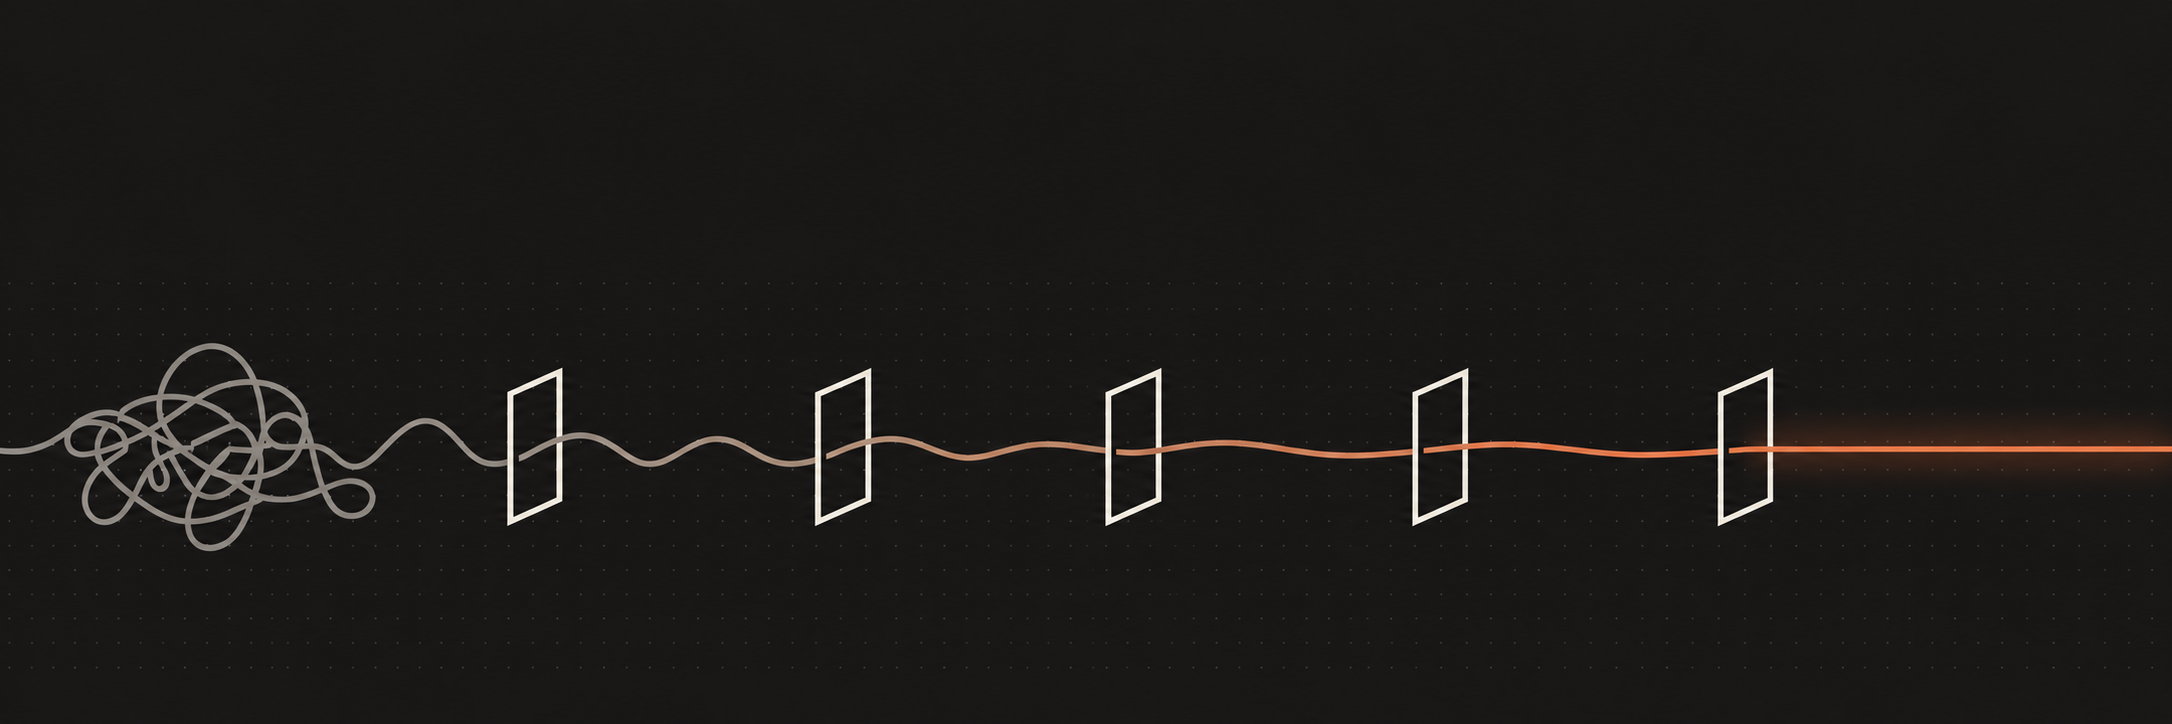
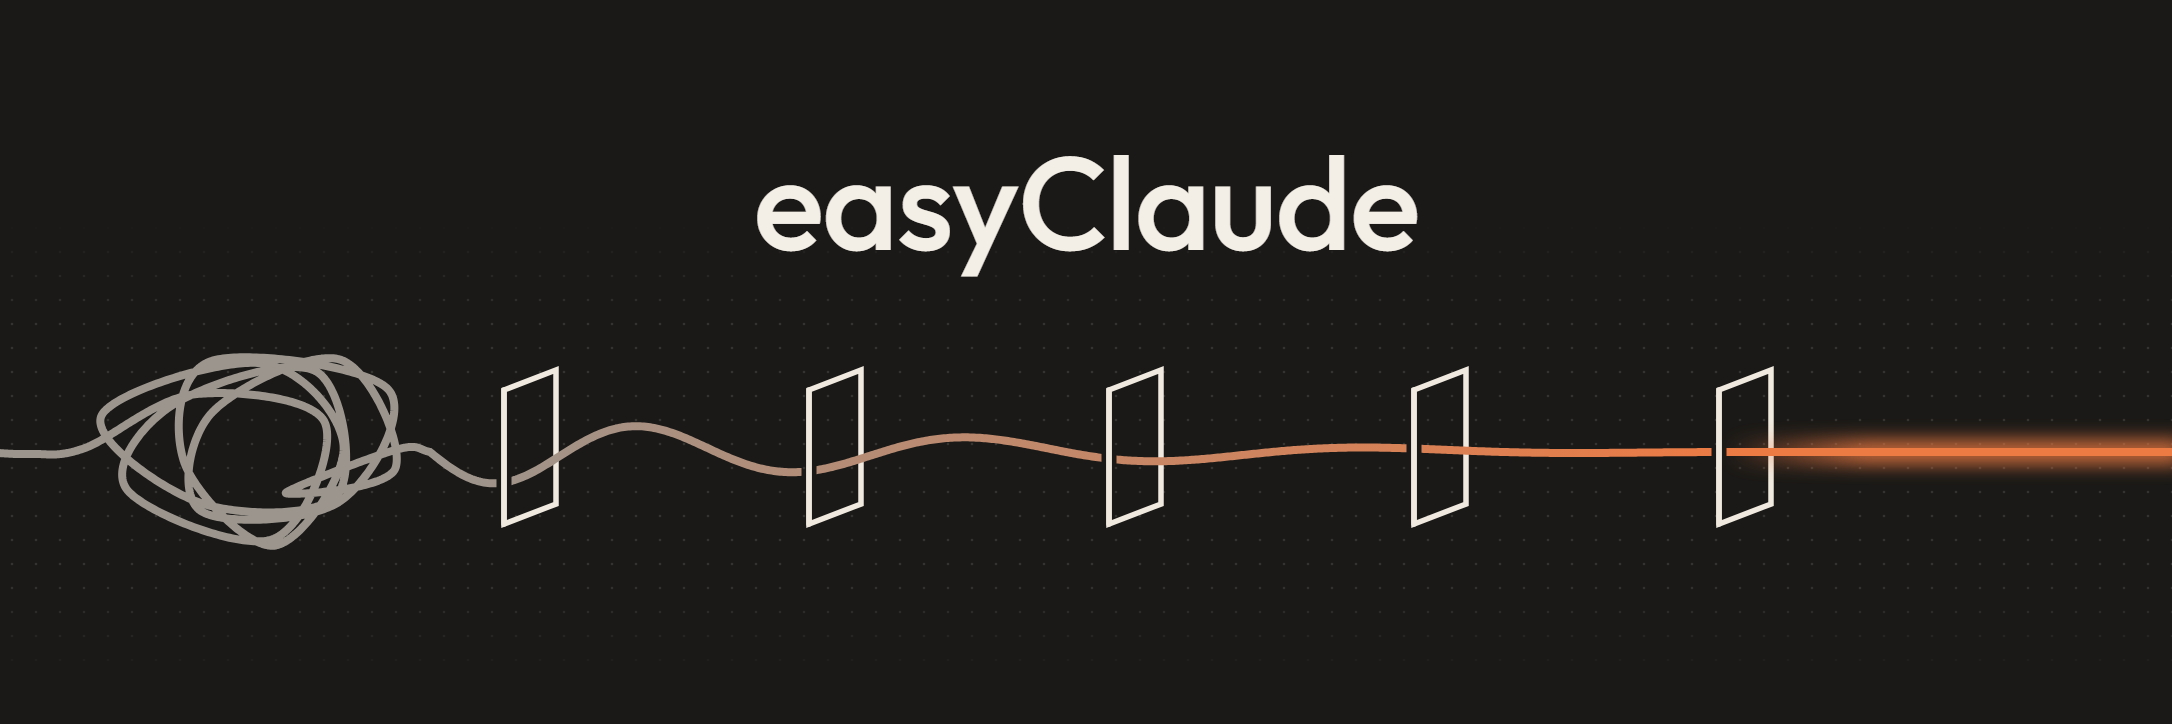
Redraw the README art in code, with the name on it
The old header came from an image model, and its thread broke into short
dashes where it crossed itself or a gate. Asking a model to redraw it copied
the breaks, so the pictures are now drawn by docs/art/draw.html: the thread
is one computed path and cannot break, and the name is real text, spelled
right. The header now carries the name, so the separate title goes.

The section dividers are transparent so they sit on GitHub's light and dark
page colours alike. The two headers are 13 times smaller than before.

diff --git a/docs/art/draw.html b/docs/art/draw.html
@@ -1,0 +1,158 @@
+<!doctype html>
+<html>
+<head>
+<meta charset="utf-8">
+<title>easyClaude README art</title>
+<link rel="preconnect" href="https://fonts.googleapis.com">
+<link href="https://fonts.googleapis.com/css2?family=Outfit:wght@500&display=block" rel="stylesheet">
+<style>
+  html, body { margin: 0; padding: 0; overflow: hidden; background: transparent; }
+  svg { display: block; }
+</style>
+</head>
+<body>
+<script>
+// The README pictures, drawn in code: ?kind=hero|divider & theme=dark|light.
+// render.sh turns each combination into a PNG in docs/assets/.
+//
+// The earlier header was made by an image model, and its thread broke into short dashes
+// wherever it crossed itself or a gate; asking a model to redraw it copied the breaks.
+// Here the thread is one computed path, so it cannot break: every point follows the last.
+const q = new URLSearchParams(location.search);
+const kind = q.get('kind') || 'hero';
+const theme = q.get('theme') || 'dark';
+
+const C = theme === 'dark'
+  ? { bg: '#1a1917', dot: '#f3eee6', dotOp: 0.12, gate: '#efe9df', text: '#f3eee6', grey: '#9b958e', orange: '#ec7a43' }
+  : { bg: '#f3eee6', dot: '#1f1e1d', dotOp: 0.14, gate: '#1f2430', text: '#1f1e1d', grey: '#8c8781', orange: '#e06c3c' };
+
+const W = 2172;
+const H = kind === 'hero' ? 724 : 120;
+const f = (n) => n.toFixed(2);
+
+const pathOf = (pts) => 'M' + pts.map(([x, y]) => `${f(x)} ${f(y)}`).join(' L');
+
+// A parallelogram gate seen at an angle: the left post sits lower because it is the near
+// one. The thread goes through the opening, so it is drawn over the far post and both bars
+// (gate) and under the near post (gateFront). Where it passes behind the near post, a mask
+// cuts a short gap in the thread (gateGap) so the post reads as in front. A mask rather
+// than a strip of background colour, because the divider is transparent and sits on
+// whatever colour GitHub's page has.
+const gateCorners = (x, cy, s) => {
+  const w = 26 * s, up = 62 * s, down = 72 * s, lean = 20 * s;
+  return [[x - w, cy - up], [x + w, cy - up - lean], [x + w, cy + down - lean], [x - w, cy + down]];
+};
+function gate(x, cy, s) {
+  const p = gateCorners(x, cy, s);
+  return `<polygon points="${p.map(([a, b]) => `${f(a)},${f(b)}`).join(' ')}" fill="none" stroke="${C.gate}" stroke-width="${f(5.5 * s)}" stroke-linejoin="miter"/>`;
+}
+const post = (x, cy, s, stroke, width) => {
+  const [tl, , , bl] = gateCorners(x, cy, s);
+  return `<line x1="${f(tl[0])}" y1="${f(tl[1])}" x2="${f(bl[0])}" y2="${f(bl[1])}" stroke="${stroke}" stroke-width="${f(width)}" stroke-linecap="round"/>`;
+};
+const gateFront = (x, cy, s) => post(x, cy, s, C.gate, 5.5 * s);
+const gateGap = (x, cy, s) => post(x, cy, s, '#000', 15 * s);
+
+// The thread, with a gap behind each near post.
+function thread(d, xs, cy, s, width) {
+  return `
+  <mask id="gaps" maskUnits="userSpaceOnUse" x="0" y="0" width="${W}" height="${H}">
+    <rect width="${W}" height="${H}" fill="#fff"/>${xs.map((x) => gateGap(x, cy, s)).join('')}
+  </mask>
+  <path d="${d}" stroke="url(#thread)" stroke-width="${width}" fill="none" stroke-linecap="round" stroke-linejoin="round" mask="url(#gaps)"/>`;
+}
+
+function hero() {
+  const cy = 452;
+  const gates = [530, 835, 1135, 1440, 1745];
+  const pts = [];
+  // 1-2. lead-in and knot: a smooth curve through chosen points that circle a centre
+  // about five times at changing distances, so the loops cross like a ball of thread.
+  const ctrl = [[-60, cy], [-20, cy], [30, cy + 2], [85, cy - 4]];
+  const radii = [55, 92, 108, 84, 58, 104, 96, 66, 112, 88, 72, 106, 60, 98, 110, 78, 90, 64, 100, 84, 50];
+  const turn = (2 * Math.PI) / 4.4;
+  radii.forEach((r, k) => {
+    const t = k / (radii.length - 1);
+    const th = Math.PI + (k + 1) * turn;
+    ctrl.push([205 + 90 * t + 1.3 * r * Math.cos(th), cy - 6 + 0.95 * r * Math.sin(th)]);
+  });
+  ctrl.push([395, cy - 2], [430, cy], [470, cy + 14]);
+  // Catmull-Rom: passes through every point with a continuous tangent, so no corners.
+  for (let i = 1; i < ctrl.length - 2; i++) {
+    const [p0, p1, p2, p3] = [ctrl[i - 1], ctrl[i], ctrl[i + 1], ctrl[i + 2]];
+    for (let s = 0; s < 1; s += 1 / 60) {
+      const s2 = s * s, s3 = s2 * s;
+      const c = (a, b, cc, d) => 0.5 * (2 * b + (-a + cc) * s + (2 * a - 5 * b + 4 * cc - d) * s2 + (-a + 3 * b - 3 * cc + d) * s3);
+      pts.push([c(p0[0], p1[0], p2[0], p3[0]), c(p0[1], p1[1], p2[1], p3[1])]);
+    }
+  }
+  pts.push([430, cy]);
+  // 3. the wave through the gates, calming down to nothing at the last gate
+  const x0 = 430;
+  const end = gates[gates.length - 1];
+  for (let x = x0 + 2; x <= end; x += 2) {
+    const k = (x - x0) / (end - x0);
+    const amp = 34 * Math.pow(1 - k, 1.6);
+    const lambda = 260 + 120 * k;
+    pts.push([x, cy + amp * Math.sin((2 * Math.PI * (x - x0)) / lambda)]);
+  }
+  // 4. straight to the edge
+  for (let x = end + 2; x <= W + 10; x += 4) pts.push([x, cy]);
+
+  const glow = `M${end - 20} ${cy} L${W + 10} ${cy}`;
+  return `
+  <defs>
+    <linearGradient id="thread" gradientUnits="userSpaceOnUse" x1="420" y1="0" x2="${end}" y2="0">
+      <stop offset="0" stop-color="${C.grey}"/><stop offset="1" stop-color="${C.orange}"/>
+    </linearGradient>
+    <linearGradient id="glowFade" gradientUnits="userSpaceOnUse" x1="${end - 20}" y1="0" x2="${end + 120}" y2="0">
+      <stop offset="0" stop-color="${C.orange}" stop-opacity="0"/><stop offset="1" stop-color="${C.orange}" stop-opacity="1"/>
+    </linearGradient>
+    <!-- A straight line has no height, so the blur needs its region in page units. -->
+    <filter id="blur" filterUnits="userSpaceOnUse" x="0" y="0" width="${W}" height="${H}"><feGaussianBlur stdDeviation="9"/></filter>
+    <pattern id="dots" width="24" height="24" patternUnits="userSpaceOnUse"><circle cx="12" cy="12" r="1.3" fill="${C.dot}"/></pattern>
+    <linearGradient id="band" x1="0" y1="0" x2="0" y2="1">
+      <stop offset="0.30" stop-color="#fff" stop-opacity="0"/><stop offset="0.45" stop-color="#fff" stop-opacity="1"/>
+      <stop offset="0.80" stop-color="#fff" stop-opacity="1"/><stop offset="0.95" stop-color="#fff" stop-opacity="0"/>
+    </linearGradient>
+    <mask id="bandMask"><rect width="${W}" height="${H}" fill="url(#band)"/></mask>
+  </defs>
+  <rect width="${W}" height="${H}" fill="${C.bg}"/>
+  <rect width="${W}" height="${H}" fill="url(#dots)" opacity="${C.dotOp}" mask="url(#bandMask)"/>
+  <text x="${W / 2}" y="250" text-anchor="middle" font-family="Outfit, 'Segoe UI', sans-serif" font-weight="500" font-size="132" letter-spacing="-2" fill="${C.text}">easyClaude</text>
+  ${gates.map((x) => gate(x, cy, 1)).join('')}
+  <path d="${glow}" stroke="url(#glowFade)" stroke-width="26" opacity="0.8" filter="url(#blur)" fill="none"/>
+  ${thread(pathOf(pts), gates, cy, 1, 8)}
+  ${gates.map((x) => gateFront(x, cy, 1)).join('')}`;
+}
+
+// A thin band with one gate, on a transparent background.
+function divider() {
+  const cy = H / 2 + 6;
+  const mid = W / 2;
+  const pts = [];
+  for (let x = 200; x <= mid; x += 2) {
+    const k = (x - 200) / (mid - 200);
+    pts.push([x, cy + 10 * (1 - k) * Math.sin((2 * Math.PI * (x - 200)) / 170)]);
+  }
+  for (let x = mid + 2; x <= W - 200; x += 4) pts.push([x, cy]);
+  return `
+  <defs>
+    <linearGradient id="thread" gradientUnits="userSpaceOnUse" x1="200" y1="0" x2="${W - 200}" y2="0">
+      <stop offset="0" stop-color="${C.grey}" stop-opacity="0"/>
+      <stop offset="0.18" stop-color="${C.grey}"/>
+      <stop offset="0.5" stop-color="${C.orange}"/>
+      <stop offset="0.82" stop-color="${C.orange}"/>
+      <stop offset="1" stop-color="${C.orange}" stop-opacity="0"/>
+    </linearGradient>
+  </defs>
+  ${gate(mid, cy, 0.55)}
+  ${thread(pathOf(pts), [mid], cy, 0.55, 5)}
+  ${gateFront(mid, cy, 0.55)}`;
+}
+
+document.body.innerHTML =
+  `<svg xmlns="http://www.w3.org/2000/svg" width="${W}" height="${H}" viewBox="0 0 ${W} ${H}">${kind === 'hero' ? hero() : divider()}</svg>`;
+</script>
+</body>
+</html>

diff --git a/README.th.md b/README.th.md
@@ -1,11 +1,9 @@
 <p align="center">
   <picture>
     <source media="(prefers-color-scheme: dark)" srcset="docs/assets/hero-dark.png">
-    <img src="docs/assets/hero-light.png" width="820" alt="เส้นด้ายที่พันกันยุ่งลอดผ่านประตูหลายบาน แล้วออกมาเป็นเส้นตรงเส้นเดียวที่เรืองแสง">
+    <img src="docs/assets/hero-light.png" width="820" alt="easyClaude: เส้นด้ายที่พันกันยุ่งลอดผ่านประตูหลายบาน แล้วออกมาเป็นเส้นตรงเส้นเดียวที่เรืองแสง">
   </picture>
 </p>
-
-<h1 align="center">easyClaude</h1>
 
 <p align="center">
   ปลั๊กอินของ Claude Code สำหรับคนที่สร้างงานกับ Claude โดยไม่ได้เขียนโค้ดเอง
@@ -22,7 +20,12 @@
   <img src="https://img.shields.io/badge/costs-~1.7k%20tokens%2Fturn-8C8781" alt="ราว 1.7k โทเคนต่อเทิร์น">
 </p>
 
----
+<p align="center">
+  <picture>
+    <source media="(prefers-color-scheme: dark)" srcset="docs/assets/divider-dark.png">
+    <img src="docs/assets/divider-light.png" width="820" alt="">
+  </picture>
+</p>
 
 ## มันทำอะไร
 
@@ -54,6 +57,13 @@
 **ค่าใช้จ่าย** งานที่มันช่วย มันทำงานมากกว่า จึงแพงกว่า: แก้บั๊กราว $0.23 เทียบกับ $0.13 และงานสองวัน $0.86 เทียบกับ $0.33 (Sonnet 5 ราคาเต็ม ถ้าใช้แพ็กเกจ Claude จะนับเป็นโควตาแทน) งานที่ไม่ต่างกัน ค่าใช้จ่ายพอ ๆ กัน และทุกเทิร์นมีการตั้งค่าของมันราว 1,700 โทเคน ถ้าคุณใช้ Claude แค่ถามคำถามหรือขอโค้ดทีละชิ้น อาจไม่คุ้ม
 
 **วัดอย่างไร** สามแถวแรกวัดวันที่ 2-3 ตุลาคม 2026 บนรุ่น 0.2.6 แถวภาษาไทยวัดหลังแก้เรื่องภาษาในรุ่น 0.2.7 สามแถวแรก ตรวจไฟล์ที่ Claude ทิ้งไว้ด้วยเทสต์ที่ Claude มองไม่เห็น สามแถวหลัง Claude อีกตัวให้คะแนนคำตอบตามเกณฑ์ที่เขียนไว้ 3 รอบเป็นตัวอย่างที่น้อย ผลแต่ละแถวขยับได้หนึ่งรอบในแต่ละวัน รอบเหล่านี้ใช้คำสั่งในเครื่องไม่ได้ ซึ่งเข้าข้าง easyClaude เพราะการตรวจของมันรันเป็น hook รายละเอียดทุกรอบอยู่ใน [`evals/README.md`](evals/README.md)
+
+<p align="center">
+  <picture>
+    <source media="(prefers-color-scheme: dark)" srcset="docs/assets/divider-dark.png">
+    <img src="docs/assets/divider-light.png" width="820" alt="">
+  </picture>
+</p>
 
 ## ติดตั้ง
 
@@ -104,6 +114,13 @@ claude plugin install easyclaude@easyclaude
 ```
 
 บรรทัด "ค้างไว้" จะขึ้นเฉพาะเมื่อมีงานที่ตั้งใจข้ามไป<!--skill:kickoff-->
+
+<p align="center">
+  <picture>
+    <source media="(prefers-color-scheme: dark)" srcset="docs/assets/divider-dark.png">
+    <img src="docs/assets/divider-light.png" width="820" alt="">
+  </picture>
+</p>
 
 ## แค่บอกว่าอยากได้อะไร
 
@@ -219,6 +236,13 @@ Claude สร้างของพวกนี้เองไม่ได้ `/e
 
 </details>
 
+<p align="center">
+  <picture>
+    <source media="(prefers-color-scheme: dark)" srcset="docs/assets/divider-dark.png">
+    <img src="docs/assets/divider-light.png" width="820" alt="">
+  </picture>
+</p>
+
 ## ค่าใช้จ่าย
 
 วัดด้วย Claude Code ในโปรเจกต์ที่ตั้งค่าแล้ว และแผนงานเป็นภาษาอังกฤษ
@@ -266,7 +290,12 @@ node scripts/bench.mjs      # การวัดผลด้านบน (ต้
 
 </details>
 
----
+<p align="center">
+  <picture>
+    <source media="(prefers-color-scheme: dark)" srcset="docs/assets/divider-dark.png">
+    <img src="docs/assets/divider-light.png" width="820" alt="">
+  </picture>
+</p>
 
 <p align="center">
   MIT · สร้างโดย <a href="https://github.com/kotaraa09">DegonCore</a>

diff --git a/README.md b/README.md
@@ -1,11 +1,9 @@
 <p align="center">
   <picture>
     <source media="(prefers-color-scheme: dark)" srcset="docs/assets/hero-dark.png">
-    <img src="docs/assets/hero-light.png" width="820" alt="A tangled thread passes through a series of gates and leaves as one straight, glowing line.">
+    <img src="docs/assets/hero-light.png" width="820" alt="easyClaude: a tangled thread passes through a series of gates and leaves as one straight, glowing line.">
   </picture>
 </p>
-
-<h1 align="center">easyClaude</h1>
 
 <p align="center">
   A Claude Code plugin for people who build with Claude and do not write code themselves.
@@ -22,7 +20,12 @@
   <img src="https://img.shields.io/badge/costs-~1.7k%20tokens%2Fturn-8C8781" alt="Around 1.7k tokens per turn">
 </p>
 
----
+<p align="center">
+  <picture>
+    <source media="(prefers-color-scheme: dark)" srcset="docs/assets/divider-dark.png">
+    <img src="docs/assets/divider-light.png" width="820" alt="">
+  </picture>
+</p>
 
 ## What it does
 
@@ -54,6 +57,13 @@ The same request, in the same small sample shop, three runs with easyClaude and 
 **What it costs.** Where it helps, it does more work, so the run costs more: about $0.23 against $0.13 for the bug fix, and $0.86 against $0.33 for the two-day task (Sonnet 5 at list price; on a Claude plan it is plan usage). Where it makes no difference, the cost is about the same. Every turn also carries about 1,700 tokens of its setup, so it is probably not worth it for one-off questions and snippets.
 
 **How this was measured.** The first three rows are from 2026-10-02 and 2026-10-03, on 0.2.6, the Thai row after the language fix in 0.2.7. In the first three rows, hidden tests that Claude never saw check the files it left. In the last three, a second Claude grades the reply against written criteria. Three runs is a small sample, and a row can move by one run between days. The runs had no shell, which favours easyClaude, because its checks run as a hook. [`evals/README.md`](evals/README.md) has every run.
+
+<p align="center">
+  <picture>
+    <source media="(prefers-color-scheme: dark)" srcset="docs/assets/divider-dark.png">
+    <img src="docs/assets/divider-light.png" width="820" alt="">
+  </picture>
+</p>
 
 ## Install
 
@@ -105,6 +115,13 @@ Debt:    3 items - reset tokens never expire
 ```
 
 "Debt" shows only when something was skipped on purpose.<!--skill:kickoff-->
+
+<p align="center">
+  <picture>
+    <source media="(prefers-color-scheme: dark)" srcset="docs/assets/divider-dark.png">
+    <img src="docs/assets/divider-light.png" width="820" alt="">
+  </picture>
+</p>
 
 ## Just say what you want
 
@@ -220,6 +237,13 @@ No. A failing check sends Claude back while it keeps changing files. If it chang
 
 </details>
 
+<p align="center">
+  <picture>
+    <source media="(prefers-color-scheme: dark)" srcset="docs/assets/divider-dark.png">
+    <img src="docs/assets/divider-light.png" width="820" alt="">
+  </picture>
+</p>
+
 ## What it costs
 
 Measured with Claude Code in a set-up project whose plan is in English:
@@ -267,7 +291,12 @@ One is built in: [slopmonster](skills/slopmonster/), a checker for AI-sounding p
 
 </details>
 
----
+<p align="center">
+  <picture>
+    <source media="(prefers-color-scheme: dark)" srcset="docs/assets/divider-dark.png">
+    <img src="docs/assets/divider-light.png" width="820" alt="">
+  </picture>
+</p>
 
 <p align="center">
   MIT · built by <a href="https://github.com/kotaraa09">DegonCore</a>
